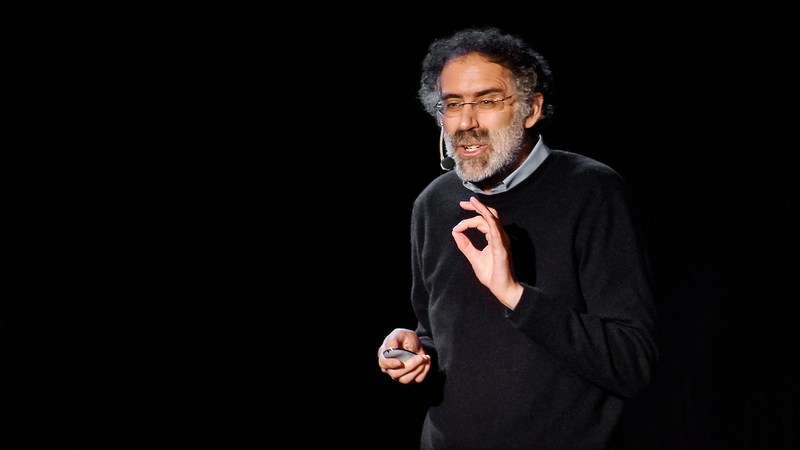
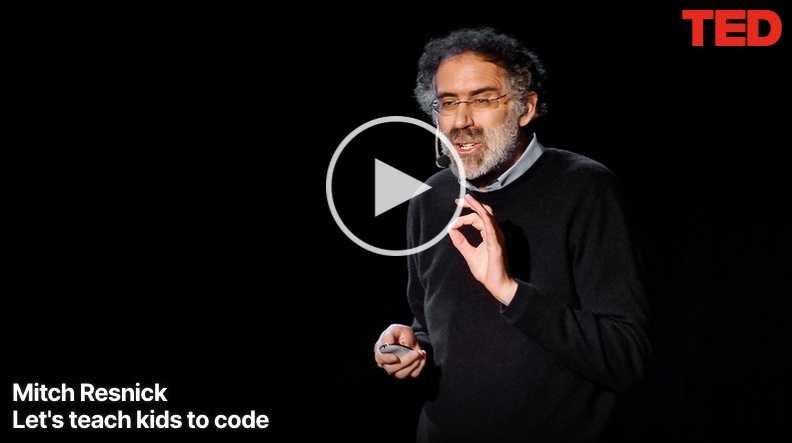
fix: update about page copy and image

diff --git a/src/views/about/about.jsx b/src/views/about/about.jsx
@@ -5,10 +5,12 @@ const render = require('../../lib/render.jsx');
 const Button = require('../../components/forms/button.jsx');
 const Page = require('../../components/page/www/page.jsx');
 const Video = require('../../components/video/video.jsx');
+const injectIntl = require('react-intl').injectIntl;
 
 require('./about.scss');
 
-const About = () => (
+const tedLink = chunks => <a href="https://www.ted.com/talks/mitch_resnick_let_s_teach_kids_to_code">{chunks}</a>;
+const About = injectIntl(({intl}) => (
     <div className="inner about">
         <h1><FormattedMessage id="general.aboutScratch" /></h1>
 
@@ -58,11 +60,20 @@ const About = () => (
                     <h2><FormattedMessage id="about.literacy" /></h2>
                     <a href="https://www.ted.com/talks/mitch_resnick_let_s_teach_kids_to_code">
                         <img
-                            alt="Mitch Resnick giving a TED Talk"
+                            alt={intl.formatMessage(
+                                {id: 'about.literacyImageDescription'}
+                            )}
                             src="/images/about/ted-thumbnail.jpg"
                         />
                     </a>
-                    <p><FormattedMessage id="about.literacyDescription" /></p>
+                    <p>
+                        <FormattedMessage
+                            id="about.literacyDescription"
+                            values={{
+                                a: tedLink
+                            }}
+                        />
+                    </p>
                 </li>
 
                 <li>
@@ -240,6 +251,6 @@ const About = () => (
             </ul>
         </div>
     </div>
-);
+));
 
 render(<Page><About /></Page>, document.getElementById('app'));
